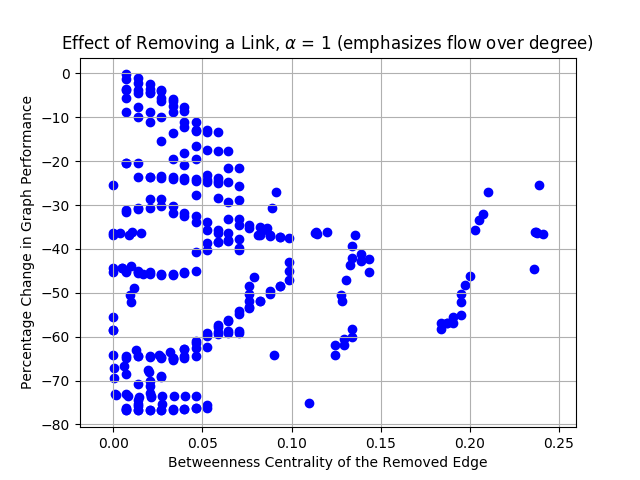
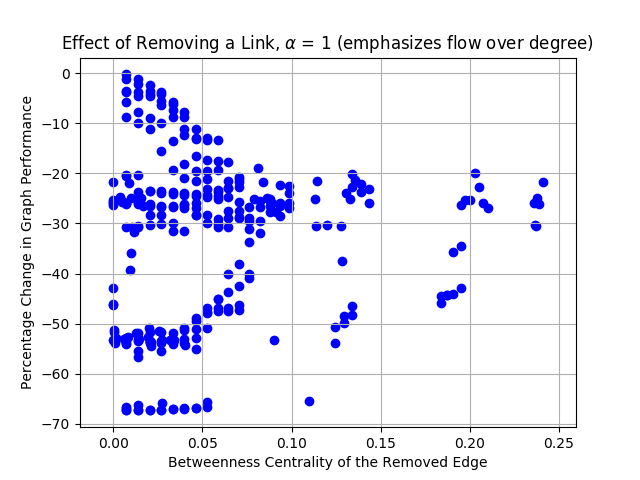
:exclamation: Fix the -ve flows on some of the edges.

diff --git a/modifying_edges.py b/modifying_edges.py
@@ -44,7 +44,7 @@ def delete_one_edge_and_evaluate(graph, test_type=None,
         # Experiment part 1: Remove an edge
         graph.remove_edge(edge=edge)
         missed, changed_dist, conserved = graph.fill_flows_from_mapped_data(
-            removed_edge=edge, removed_edge_dist=distance, redistribute_flow=False
+            removed_edge=edge, removed_edge_dist=distance, redistribute_flow=True
         )
         missed_trips.append(missed)
         changed_trips.append(changed_dist[0])
@@ -125,38 +125,33 @@ def delete_one_edge_and_evaluate(graph, test_type=None,
                 file_name=plot_options[title_key]["file_name"] + this_x_axis_data + ".png"
             )
     
-    # removal_effects_alpha_0, removal_effects_alpha_1 = [], []
-    # removal_effects, centralities, edges_in_order = [], [], []
-    # missed_trips, flows, distances, changed_trips = [], [], [], [] 
-    # changed_trips_distance, conserved_trips = [], []
+    # make_plot(
+    #     x=centralities, y=missed_trips, type_of_plot="scatter",
+    #     ylabel="# of Trips That Became Infeasible", 
+    #     xlabel="Centrality of Removed Edge",
+    #     title="Effect of the Centrality on the # of Infeasible Trips",
+    #     file_name="infeasible_trips_against_centrality.png"
+    # )
+    # 
+    # make_plot(
+    #     x=centralities, y=changed_trips_distance, type_of_plot="scatter",
+    #     ylabel="Change in Total Distance Travelled (km)", 
+    #     xlabel="Centrality of Removed Edge",
+    #     title=r"Effect of the Centrality on the $\Delta$ Distance Travelled",
+    #     file_name="changed_trips_against_centrality.png"
+    # )
+    # 
+    # make_plot(
+    #     x=missed_trips, y=changed_trips, type_of_plot="scatter",
+    #     ylabel="# of Trips That Changed Their Path", 
+    #     xlabel="# of Missed Trips After Edge Removal",
+    #     title="Investigating Alternate Paths on the Metro",
+    #     file_name="investigating_alternate_paths_on_metro.png"
+    # )
     
-    make_plot(
-        x=centralities, y=missed_trips, type_of_plot="scatter",
-        ylabel="# of Trips That Became Infeasible", 
-        xlabel="Centrality of Removed Edge",
-        title="Effect of the Centrality on the # of Infeasible Trips",
-        file_name="infeasible_trips_against_centrality.png"
-    )
-    
-    make_plot(
-        x=centralities, y=changed_trips_distance, type_of_plot="scatter",
-        ylabel="Change in Total Distance Travelled (km)", 
-        xlabel="Centrality of Removed Edge",
-        title=r"Effect of the Centrality on the $\Delta$ Distance Travelled",
-        file_name="changed_trips_against_centrality.png"
-    )
-    
-    make_plot(
-        x=missed_trips, y=changed_trips, type_of_plot="scatter",
-        ylabel="# of Trips That Changed Their Path", 
-        xlabel="# of Missed Trips After Edge Removal",
-        title="Investigating Alternate Paths on the Metro",
-        file_name="investigating_alternate_paths_on_metro.png"
-    )
-    
-    # helper_make_plots(y=removal_effects, title_key="metro_performance")
-    # helper_make_plots(y=removal_effects_alpha_0, title_key="activity_and_popularity_0")
-    # helper_make_plots(y=removal_effects_alpha_1, title_key="activity_and_popularity_1")
+    helper_make_plots(y=removal_effects, title_key="metro_performance")
+    helper_make_plots(y=removal_effects_alpha_0, title_key="activity_and_popularity_0")
+    helper_make_plots(y=removal_effects_alpha_1, title_key="activity_and_popularity_1")
     
     indexes_in_sorted_list = np.argsort(removal_effects)
         
